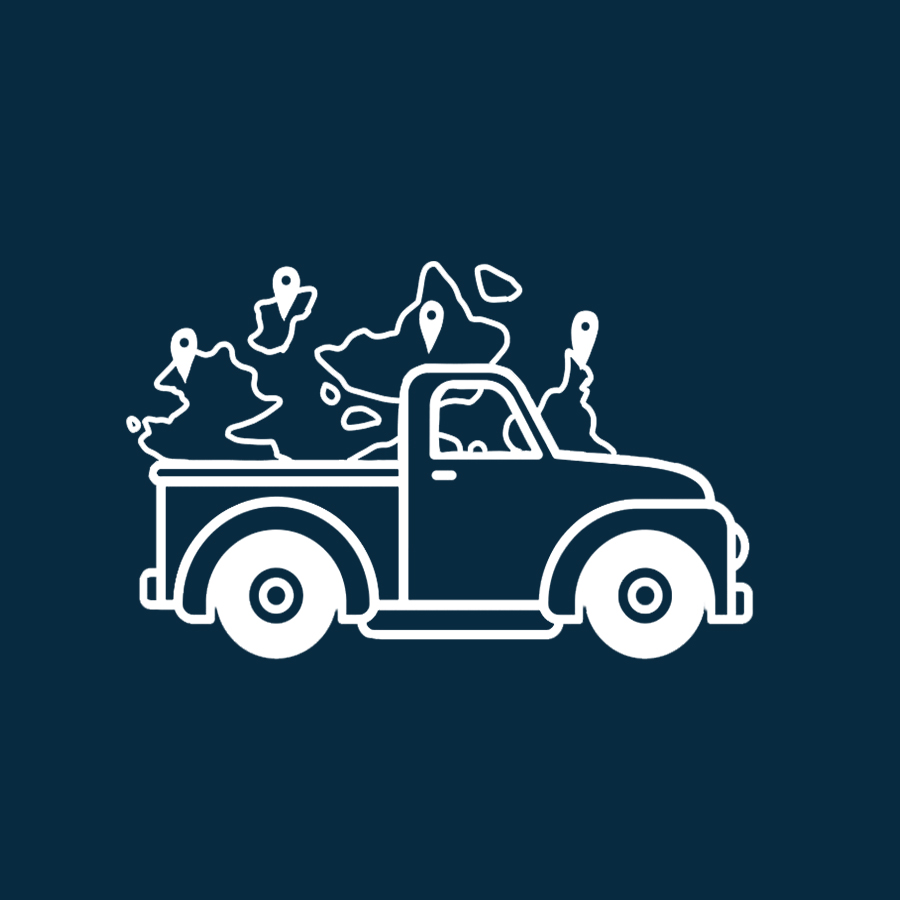
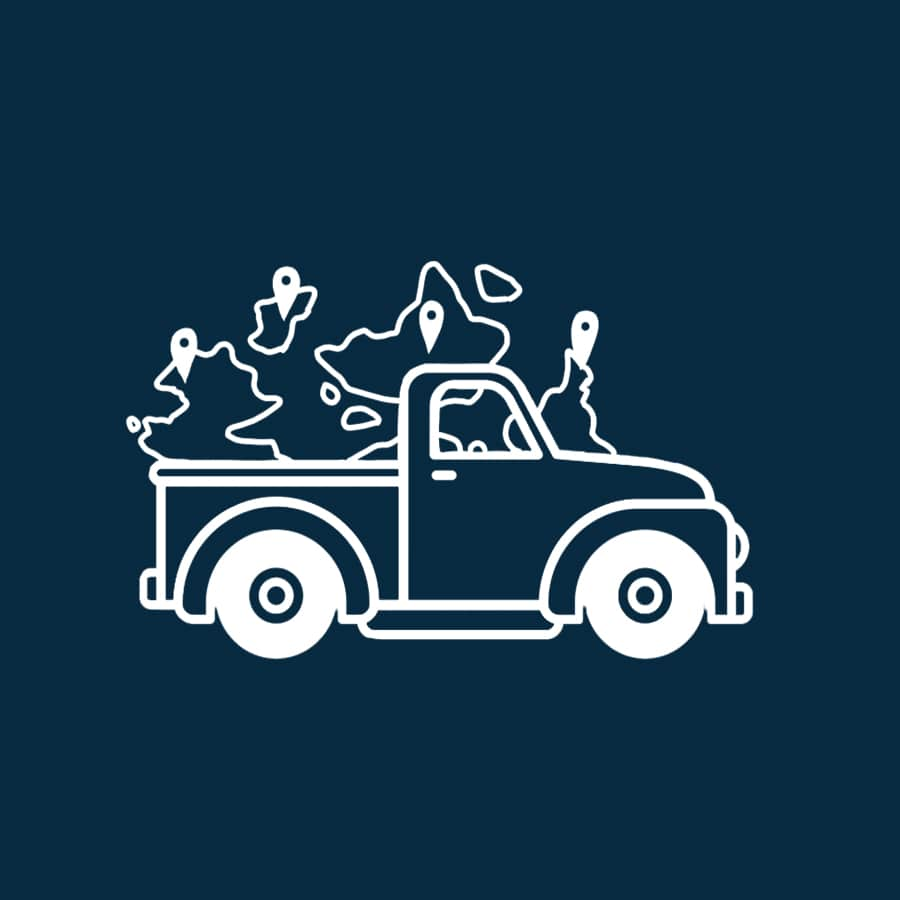
reduca images sizes

Changed region(s): [[0.5911, 0.4667, 0.6222, 0.4978], [0.56, 0.4356, 0.5911, 0.4667]]

diff --git a/src/components/WhatThefuzz.js b/src/components/WhatThefuzz.js
@@ -36,10 +36,7 @@ const WhatTheFuzz = () => {
         paddingRight: { md: "12%", sm: "10%", xs: "5%" },
       }}
     >
-      <Paper
-        className={classes.featuresSectionPaper}
-        sx={{ backgroundColor: "red" }}
-      >
+      <Paper className={classes.featuresSectionPaper}>
         <Grid
           container
           alignItems="flex-start"
